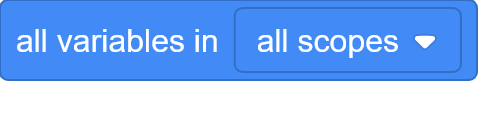
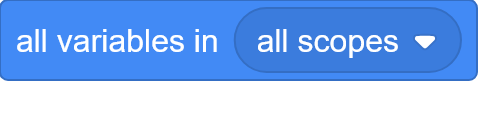
Update docs: block and input shape example images

diff --git a/extensions/gceOOP.js b/extensions/gceOOP.js
@@ -3795,7 +3795,6 @@ if (!isRuntimeEnv) {
  * TODO
  * 
  * + WORKING ON
- * + - Update docs images
  *
  * + HIGH PRIORITY
  *

diff --git a/docs/gceOOP.md b/docs/gceOOP.md
@@ -22,21 +22,42 @@ The OOP extension brings structured **object-oriented programming** and **scope-
 - **`as string`:** This converts a value to readable text. For class instances, it calls the special **`as string`** method when one is defined.
 
 ## Block and Input Shapes
-In this extension, the shapes of reporters indicate the **type of value**, they return. Input shapes indicate in the same way which type of value, they expect. Here are some examples for the existing shapes:
+In this extension, the shapes of reporters indicate the **type of value**, they return. Input shapes indicate in the same way which type of value, they expect. If an input has a shape but also allows text, it expects either the value corresponding to the shape or a variable name, that contains one. Here are some examples for the existing shapes:
 ### Class
+#### Block Shape
 ![Class Example](images/create_class_named.png)
+#### Input Shape
+![Class Example](images/get_class_var.png)
+
 ### Class Instance
+#### Block Shape
 ![Class Instance Example](images/create_instance_of.png)
+#### Input Shape
+![Class Instance Example](images/get_attribute.png)
+
 ### Function
+#### Block Shape
 ![Function Example](images/create_function_named.png)
+#### Input Shape
+![Function Example](images/call_function.png)
+
 ### Nothing
+#### Block Shape
 ![Nothing Example](images/Nothing.png)
+
 ### Array (extension by jwklong)
+#### Block Shape
 ![Array Example](images/all_variables_in.png)
+#### Input Shape
+![Array Example](images/call_function.png)
+
 ### Object (extension by dogeiscut)
+#### Block Shape
 ![Object Example](images/all_attributes_of.png)
+
 ### Any value (Normal round reporter)
-![Anything Example](images/attribute_of.png)
+#### Input & Block Shape
+![Anything Example](images/typeof.png)
 
 ## Scoped Variables and Scope Control
 - Create, read, update, and delete variables in the **current scope**.
